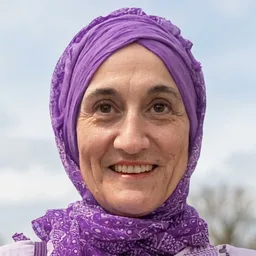
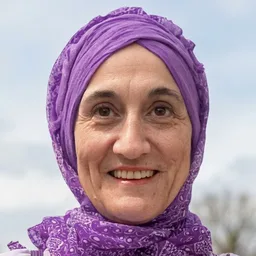
Foto de Teresa: 4% más de zoom y cara un pelín más abajo

diff --git a/index.html b/index.html
@@ -202,7 +202,7 @@
         <article class="resena" itemscope itemtype="https://schema.org/Review">
           <div itemprop="itemReviewed" itemscope itemtype="https://schema.org/Service"><meta itemprop="name" content="Diseño web Tu Web Moderna"></div>
           <div class="resena__quien">
-            <img class="resena__foto" src="assets/img/resena-teresa-gomez.webp?v=7" alt="Teresa Gómez Portillo" width="58" height="58">
+            <img class="resena__foto" src="assets/img/resena-teresa-gomez.webp?v=8" alt="Teresa Gómez Portillo" width="58" height="58">
             <span><strong class="resena__nombre" itemprop="author">Teresa Gómez Portillo</strong><br>
             <span class="resena__negocio">Comunicación No Violenta · Málaga</span><br>
             <a class="resena__web" href="https://comunicacionyresoluciondeconflictos.com" target="_blank" rel="noopener">Visitar página web ↗</a></span>
